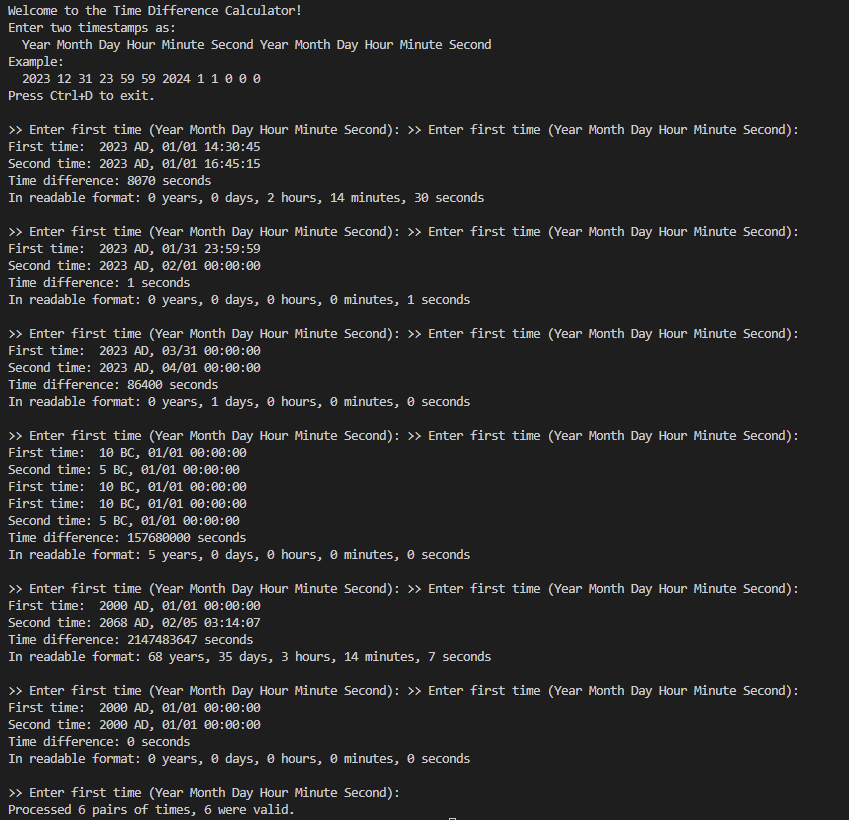
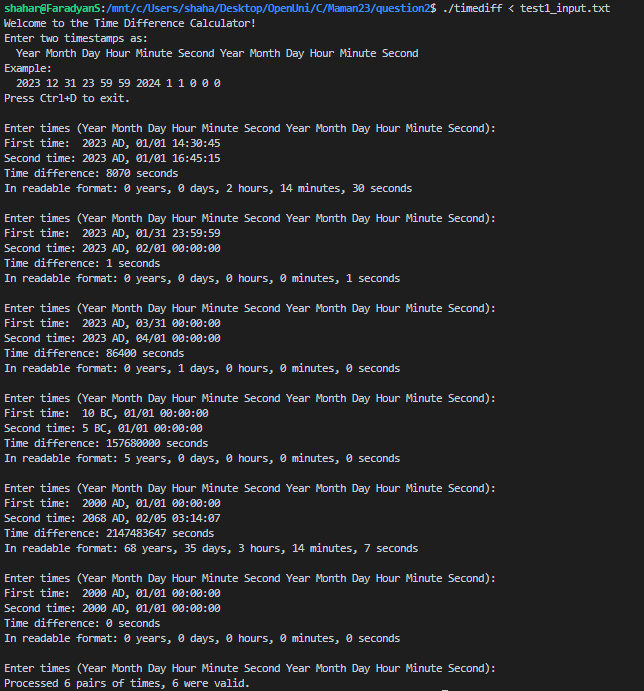
init

Changed region(s): [[0.0, 0.0, 0.9317, 1.0], [0.8075, 0.0, 0.9627, 0.0304]]

diff --git a/timediff.c b/timediff.c
@@ -1,26 +1,7 @@
+#include "timediff.h"
 #include <stdio.h>
 #include <stdlib.h>
 #include <math.h>
-
-#define SECONDS_PER_MINUTE 60
-#define MINUTES_PER_HOUR 60
-#define HOURS_PER_DAY 24
-#define DAYS_PER_YEAR 365
-
-#define SECONDS_IN_MINUTE (SECONDS_PER_MINUTE)
-#define SECONDS_IN_HOUR (SECONDS_IN_MINUTE * MINUTES_PER_HOUR)
-#define SECONDS_IN_DAY (SECONDS_IN_HOUR * HOURS_PER_DAY)
-#define SECONDS_IN_YEAR (SECONDS_IN_DAY * DAYS_PER_YEAR)
-
-typedef struct
-{
-    int year;   /* year (negative for BC) */
-    int month;  /* 1-12 */
-    int day;    /* 1-31 */
-    int hour;   /* 0-23 */
-    int minute; /* 0-59 */
-    int second; /* 0-59 */
-} time;
 
 /* days in each month */
 const int days_in_month[] = {0, 31, 28, 31, 30, 31, 30, 31, 31, 30, 31, 30, 31};
@@ -181,63 +162,42 @@ int main()
     long time_difference;
     char error_msg[100];
     int success_count = 0;
+    char line[256];  /* buffer for the line */
 
     print_welcome_message();
 
     /* process input until EOF */
     while (1)
     {
-        /* try to read first time */
-        printf(">> Enter first time (Year Month Day Hour Minute Second): ");
-        read_count = scanf("%d %d %d %d %d %d",
-                           &t1.year, &t1.month, &t1.day,
-                           &t1.hour, &t1.minute, &t1.second);
-
-        /* check if we reached EOF before any numbers were read */
-        if (read_count == EOF)
+        printf("Enter times (Year Month Day Hour Minute Second Year Month Day Hour Minute Second): ");
+        
+        /* clear input buffer before reading new line */
+        if (fgets(line, sizeof(line), stdin) == NULL)
         {
-            break;
+            break;  /* EOF encountered */
         }
 
-        /* check if we got all 6 numbers for first time */
-        if (read_count != 6)
+        read_count = sscanf(line, "%d %d %d %d %d %d %d %d %d %d %d %d",
+                           &t1.year, &t1.month, &t1.day,
+                           &t1.hour, &t1.minute, &t1.second,
+                           &t2.year, &t2.month, &t2.day,
+                           &t2.hour, &t2.minute, &t2.second);
+
+        /* check if we got exactly 12 numbers */
+        if (read_count != 12)
         {
-            printf("\nPair %d: Error - Invalid input format for first time (expected 6 numbers)\n",
-                   pair_number);
-            /* try to read until next line */
-            while (getchar() != '\n' && getchar() != EOF)
-                ;
+            printf("Error - Invalid number of inputs (expected 12 numbers, got %d)\n", read_count);
             pair_number++;
             continue;
         }
 
-        /* validate first time */
+        /* validate both times */
         if (!validate_time(t1, error_msg))
         {
             printf("Error in first time: %s\n", error_msg);
             pair_number++;
             continue;
         }
-
-        /* read second time */
-        printf(">> Enter second time (Year Month Day Hour Minute Second): ");
-        read_count = scanf("%d %d %d %d %d %d",
-                           &t2.year, &t2.month, &t2.day,
-                           &t2.hour, &t2.minute, &t2.second);
-
-        /* check if we got all 6 numbers for second time */
-        if (read_count != 6)
-        {
-            printf("\nPair %d: Error - Invalid input format for second time (expected 6 numbers)\n",
-                   pair_number);
-            /* try to read until next line */
-            while (getchar() != '\n' && getchar() != EOF)
-                ;
-            pair_number++;
-            continue;
-        }
-
-        /* validate second time */
         if (!validate_time(t2, error_msg))
         {
             printf("Error in second time: %s\n", error_msg);

diff --git a/timediff.h b/timediff.h
@@ -1,0 +1,33 @@
+#ifndef TIMEDIFF_H
+#define TIMEDIFF_H
+
+/* constants */
+#define SECONDS_PER_MINUTE 60
+#define MINUTES_PER_HOUR 60
+#define HOURS_PER_DAY 24
+#define DAYS_PER_YEAR 365
+
+#define SECONDS_IN_MINUTE (SECONDS_PER_MINUTE)
+#define SECONDS_IN_HOUR (SECONDS_IN_MINUTE * MINUTES_PER_HOUR)
+#define SECONDS_IN_DAY (SECONDS_IN_HOUR * HOURS_PER_DAY)
+#define SECONDS_IN_YEAR (SECONDS_IN_DAY * DAYS_PER_YEAR)
+
+typedef struct
+{
+    int year;   /* year (negative for BC) */
+    int month;  /* 1-12 */
+    int day;    /* 1-31 */
+    int hour;   /* 0-23 */
+    int minute; /* 0-59 */
+    int second; /* 0-59 */
+} time;
+
+/* function prototypes */
+int validate_time(time t, char *error_msg);
+long calculate_seconds(time t);
+void print_formatted_diff_time(long seconds);
+long time_diff(time t1, time t2);
+void print_welcome_message(void);
+void print_time(time t);
+
+#endif /* TIMEDIFF_H */
